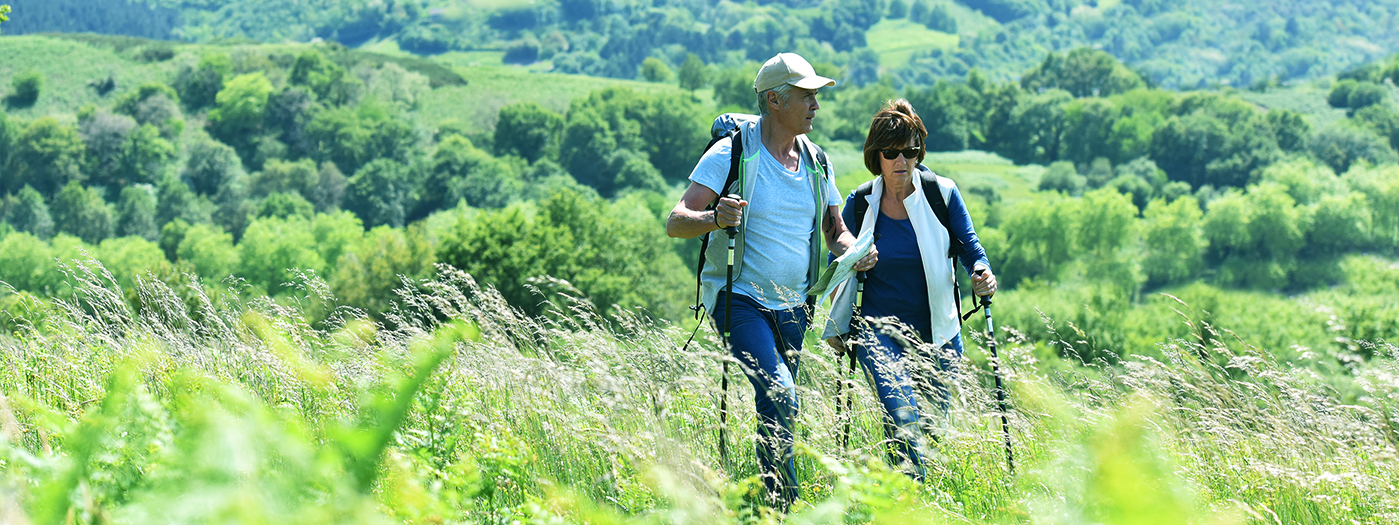
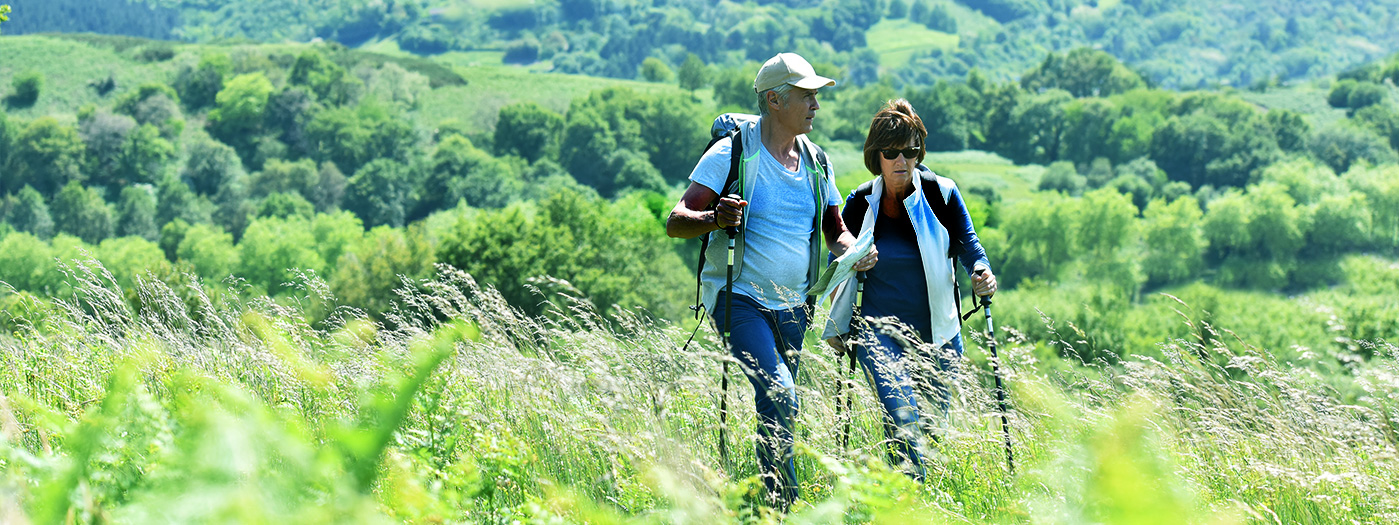
cover change

Changed region(s): [[0.4303, 0.3352, 0.7377, 0.4876]]

diff --git a/app/index.html b/app/index.html
@@ -270,7 +270,7 @@ j=d.createElement(s),dl=l!='dataLayer'?'&l='+l:'';j.async=true;j.src=
 
 
 
-        <section id="slider" class="slider-parallax" style="background: url('images/front/couple_on_beach.jpg'); background-size: cover;" data-height-lg="670" data-height-md="500" data-height-sm="400" data-height-xs="250" data-height-xxs="200">
+        <section id="slider" class="slider-parallax" style="background: url('images/front/Senior-couple-hiking.jpg'); background-size: cover;" data-height-lg="670" data-height-md="500" data-height-sm="400" data-height-xs="250" data-height-xxs="200">
 
             <div class="container clearfix">
                 <div class="vertical-middle center">
